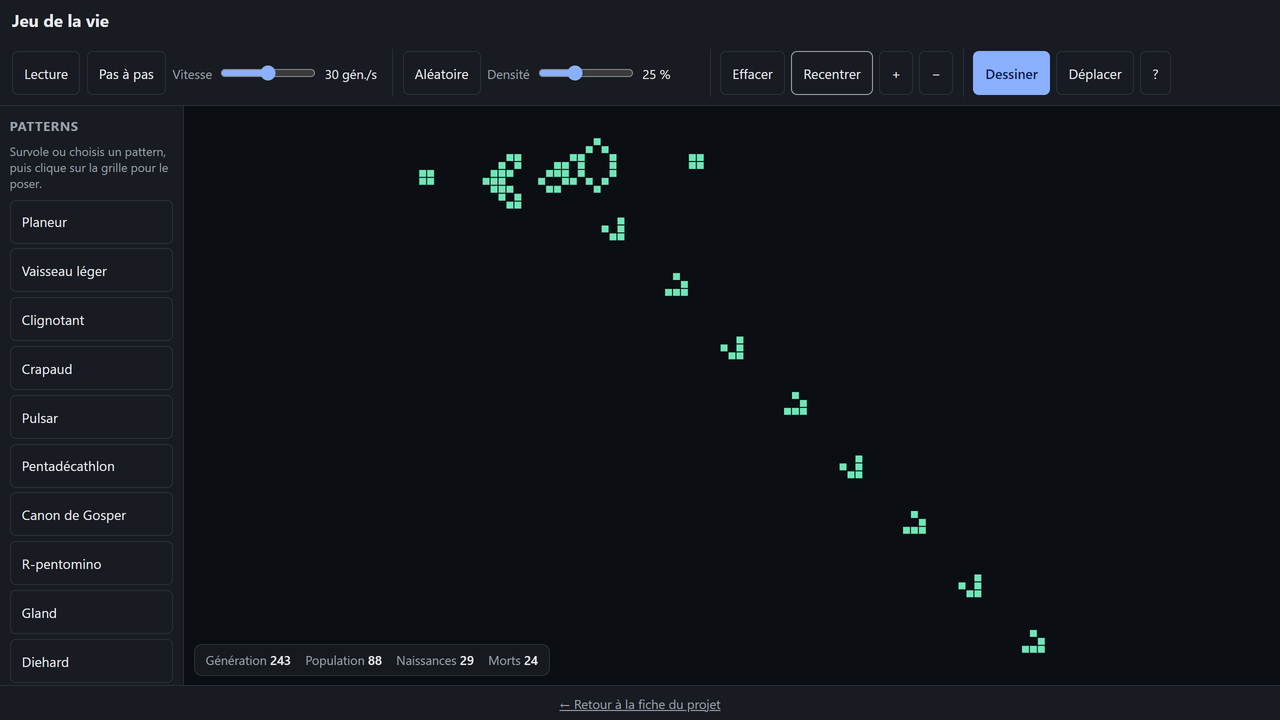
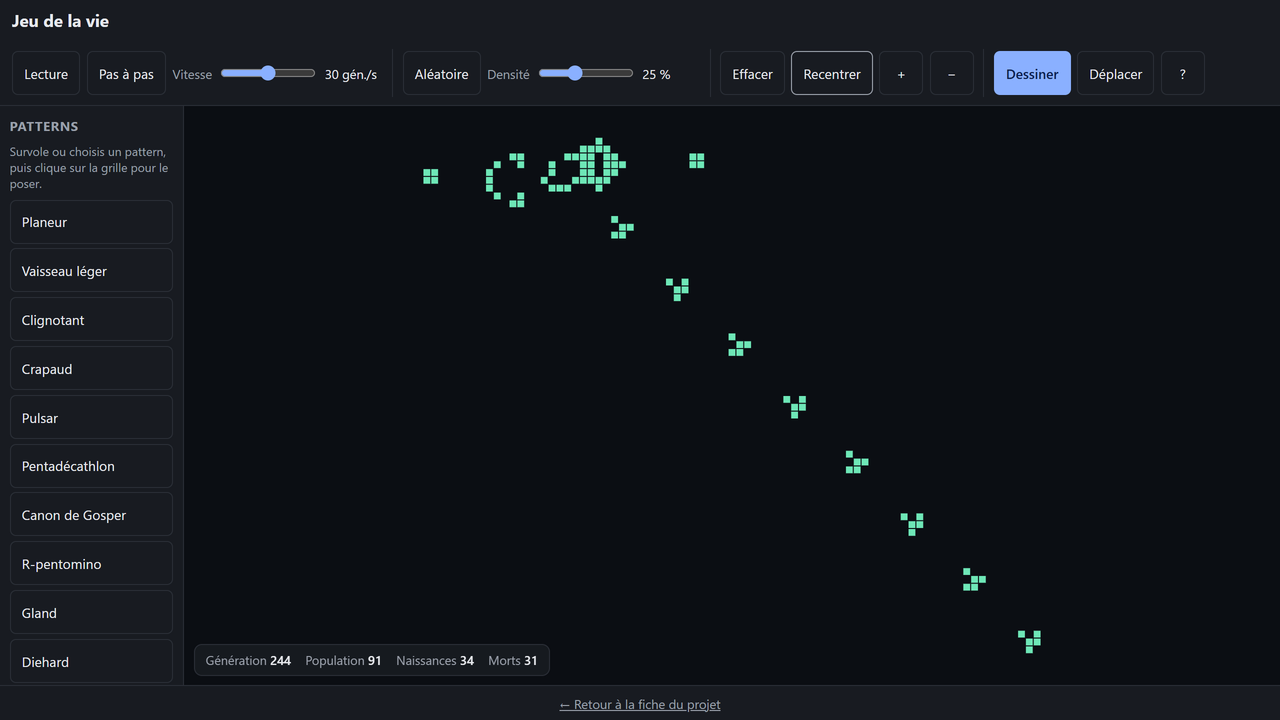
fix: address independent review findings on the charter branch
- jeu-de-la-vie: pull the upstream fix giving single-glyph buttons
  (+, -, ?) a 44px min-width, and recapture the cover.
- Trim the « slug sera ajusté » sentence from the back-link comments of
  the integrated copies (the slug is adjusted); restores the cleanup
  the sync had overwritten in cube-solver.
- docs/demos.md: list the epicycle speed slider among the assumed
  no-<output> deviations and mention prisma first-visit auto-open.
- auto-ecole coverAlt: « épingle »/« hairpin » softened to a bend, what
  the capture actually shows.
- new:project demo placeholder now points at the charter; sample demo
  uses the standard « Réinitialiser » label.

Claude-Session: https://claude.ai/code/session_01XJTGEqG5R5AxiqF1LLdPM5

diff --git a/demos/projet-exemple/index.html b/demos/projet-exemple/index.html
@@ -17,7 +17,7 @@
       <p>Un compteur, rien de plus. Il vérifie que le pipeline des démos fonctionne.</p>
       <button id="bump" type="button">Cliquer</button>
       <p aria-live="polite">Total : <output id="count">0</output></p>
-      <button id="reset" type="button">Remettre à zéro</button>
+      <button id="reset" type="button">Réinitialiser</button>
     </main>
     <footer>
       <a href="../../projets/projet-exemple/">← Retour à la fiche du projet</a>

diff --git a/demos/jeu-de-la-vie/src/style.css b/demos/jeu-de-la-vie/src/style.css
@@ -84,6 +84,14 @@ button:hover {
   border-color: var(--color-muted);
 }
 
+/* Single-glyph buttons (+, −, ?) need a floor on the horizontal axis too
+   to reach the 44px touch-target size of the demo charter. */
+#zoom-in,
+#zoom-out,
+#help-btn {
+  min-width: 44px;
+}
+
 button[aria-pressed='true'] {
   background: var(--color-accent);
   color: var(--color-accent-contrast);

diff --git a/demos/cube-solver/index.html b/demos/cube-solver/index.html
@@ -97,7 +97,7 @@
 
     <footer>
       <!-- RÈGLE PORTFOLIO — ce lien de retour est obligatoire dans la
-           démo intégrée. Le slug sera ajusté à l'intégration. -->
+           démo intégrée. -->
       <a href="../../projets/cube-solver/">← Retour à la fiche du projet</a>
     </footer>
     <script type="module" src="./src/main.js"></script>

diff --git a/demos/jeu-de-la-vie/index.html b/demos/jeu-de-la-vie/index.html
@@ -74,7 +74,7 @@
 
     <footer>
       <!-- RÈGLE PORTFOLIO — ce lien de retour est obligatoire dans la
-           démo intégrée. Le slug sera ajusté à l'intégration. -->
+           démo intégrée. -->
       <a href="../../projets/jeu-de-la-vie/">← Retour à la fiche du projet</a>
     </footer>
 

diff --git a/docs/demos.md b/docs/demos.md
@@ -66,8 +66,9 @@ chaque nouveau repo de projet la porte d'office. L'essentiel :
   c'est l'identité de la démo.
 - **Structure** : tagline sous le h1 (ou en tête du dialog d'aide en plein
   écran) ; volet « Comment ça marche ? » obligatoire (`<details>` fermé, ou
-  `<dialog>` ouvert par un bouton « ? ») ; `<meta name="description">` ;
-  footer centré hors de `<main>`, lien retour en `--color-muted`.
+  `<dialog>` ouvert par un bouton « ? » — prisma l'ouvre en plus tout seul à
+  la première visite) ; `<meta name="description">` ; footer centré hors de
+  `<main>`, lien retour en `--color-muted`.
 - **Contrôles** : libellés standard (« Lecture »/« Pause » alternant,
   « Réinitialiser », « Effacer »), pas d'emoji dans titres et libellés,
   sliders `label > input > output`, boutons au gabarit commun avec cibles
@@ -77,8 +78,8 @@ chaque nouveau repo de projet la porte d'office. L'essentiel :
 
 Écarts assumés (identité ou sémantique, documentés dans les repos) : le h1
 arc-en-ciel de prisma et ses couleurs « danger », l'écho doré du record
-d'auto-ecole, le slider de cube-solver sans `<output>` (valeur interne non
-parlante).
+d'auto-ecole, les sliders de vitesse de cube-solver et d'epicycle sans
+`<output>` (valeur interne non parlante, bornes ou effet visibles à l'écran).
 
 ## Limites connues du scan
 

diff --git a/src/content/projects/auto-ecole/fr.md b/src/content/projects/auto-ecole/fr.md
@@ -15,7 +15,7 @@ demo: internal # la démo vit dans demos/auto-ecole/
 links:
   repo: 'https://github.com/Arthur-Lecomte/Auto-Ecole'
 cover: ./cover.png
-coverAlt: "Vue de dessus d'un circuit sinueux sombre : une file de petites voitures bleues aborde une épingle, menée par la voiture jaune du meilleur élève dont les capteurs de distance sont tracés ; à droite, le tableau de bord affiche la promotion, les voitures en piste et le record de l'école."
+coverAlt: "Vue de dessus d'un circuit sinueux sombre : une file de petites voitures bleues aborde un virage, menée par la voiture jaune du meilleur élève dont les capteurs de distance sont tracés ; à droite, le tableau de bord affiche la promotion, les voitures en piste et le record de l'école."
 featured: false
 draft: false # publié le 2026-11-23 sur décision d'Arthur
 thirdParty: [] # rien d'embarqué : JavaScript pur, tout est dessiné au canvas

diff --git a/src/content/projects/auto-ecole/en.md b/src/content/projects/auto-ecole/en.md
@@ -3,7 +3,7 @@
 # Claude drafts this from Arthur's French, Arthur reviews.
 title: 'Auto-École'
 summary: 'A driving school for virtual cars: nobody teaches them to drive, they figure it out — and every class drives a bit better than the last.'
-coverAlt: 'Top-down view of a dark winding track: a line of small blue cars enters a hairpin, led by the yellow car of the best student with its distance sensors traced; on the right, the dashboard shows the class number, cars still on track and the school record.'
+coverAlt: 'Top-down view of a dark winding track: a line of small blue cars enters a bend, led by the yellow car of the best student with its distance sensors traced; on the right, the dashboard shows the class number, cars still on track and the school record.'
 aiNote: 'Built by directing an AI: I set the frame, tested and made the calls; it wrote most of the code.'
 ---
 
